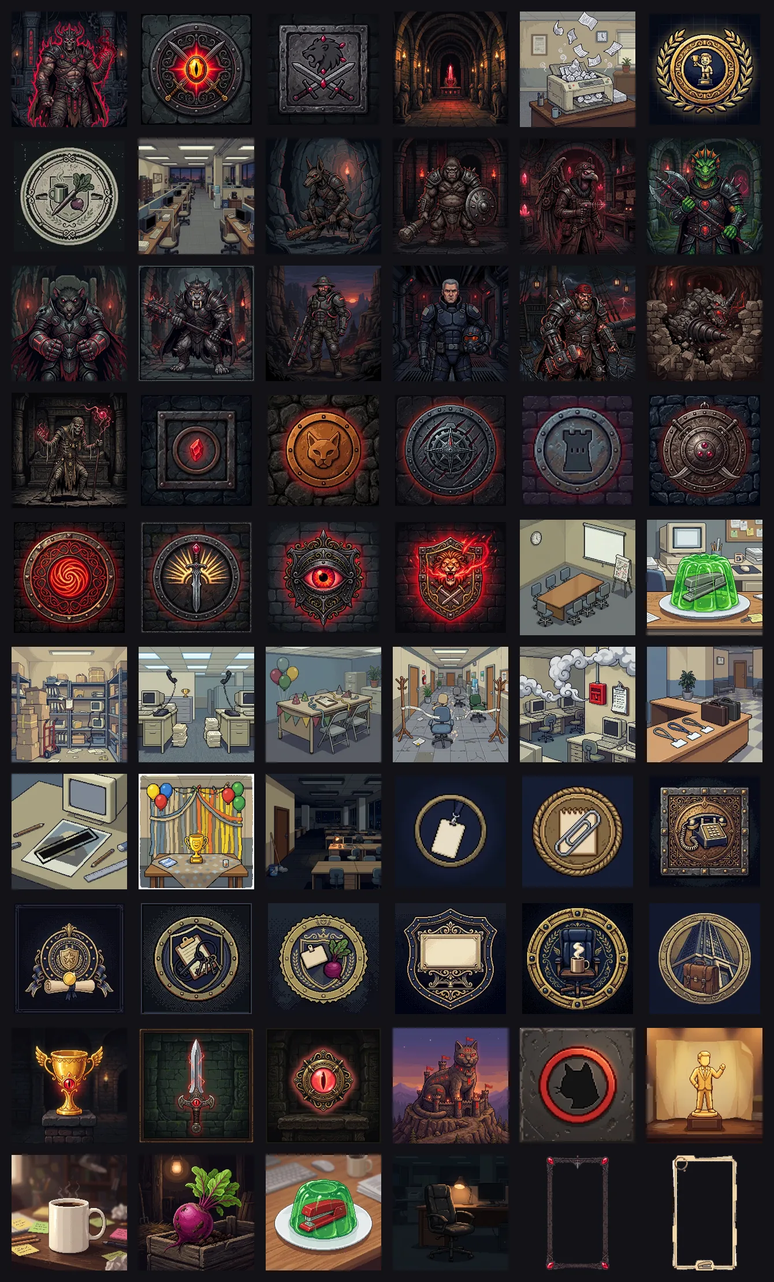
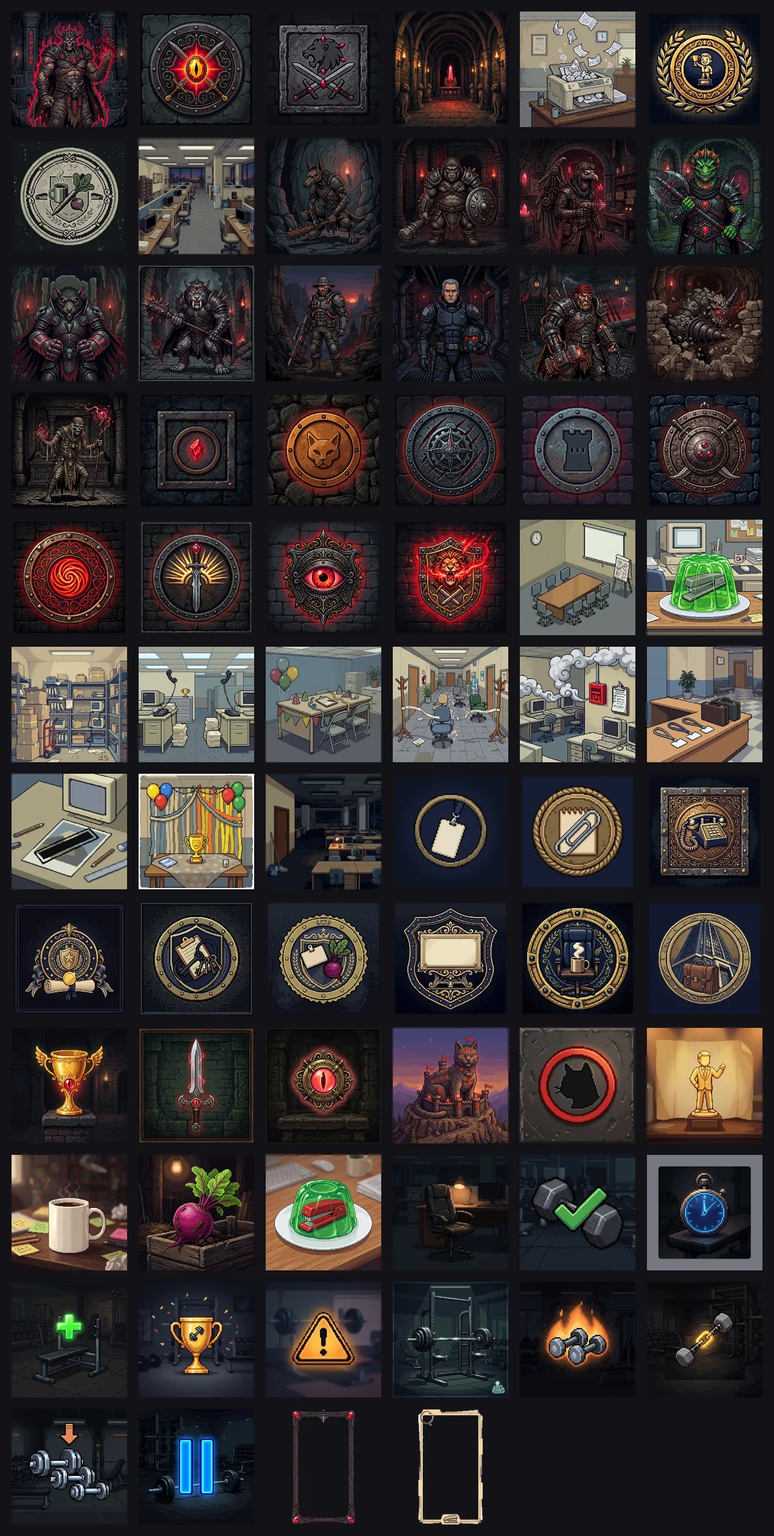
Artes lote 7: cartela 7 (treino, series e descanso) itens 1-10
10 pecas geradas individualmente, revisadas peca a peca, derivados 512 NEAREST em candidatos/treino, manifesto 70 registros. Sem vinculo com UI e sem regra nova de classificacao de series. Validacao completa no fechamento da PR.

diff --git a/scripts/prepare-art-lote1.py b/scripts/prepare-art-lote1.py
@@ -222,6 +222,40 @@ PECAS = [
     ('to-id-cadeira', 'Cadeira', 'office', 'identidade',
      'lote6-cadeira.png', 'office/identidade/cadeira.webp',
      (512, 512), 'nearest', 'images/artes/candidatos/office/identidade/cadeira.webp (identidade do tema; sem vínculo com UI)'),
+    # Lote 7 — cartela 7 (Treino: séries e descanso), itens 1-10 de 12.
+    # Lista adotada nesta sessão a partir das funções reais da sessão do app
+    # (a cartela aprovada só trazia título/contagem); sem vínculo com UI e
+    # sem nenhuma regra nova de classificação de séries.
+    ('tr-serie-concluida', 'Série concluída', 'treino', 'treino',
+     'lote7-serie-concluida.png', 'treino/serie-concluida.webp',
+     (512, 512), 'nearest', 'images/artes/candidatos/treino/serie-concluida.webp (cartela 7; sem vínculo com UI)'),
+    ('tr-descanso', 'Descanso', 'treino', 'treino',
+     'lote7-descanso.png', 'treino/descanso.webp',
+     (512, 512), 'nearest', 'images/artes/candidatos/treino/descanso.webp (cartela 7; sem vínculo com UI)'),
+    ('tr-adicionar-serie', 'Adicionar série', 'treino', 'treino',
+     'lote7-adicionar-serie.png', 'treino/adicionar-serie.webp',
+     (512, 512), 'nearest', 'images/artes/candidatos/treino/adicionar-serie.webp (cartela 7; sem vínculo com UI)'),
+    ('tr-trofeu-da-sessao', 'Troféu da sessão', 'treino', 'treino',
+     'lote7-trofeu-da-sessao.png', 'treino/trofeu-da-sessao.webp',
+     (512, 512), 'nearest', 'images/artes/candidatos/treino/trofeu-da-sessao.webp (cartela 7; sem vínculo com UI)'),
+    ('tr-alerta', 'Alerta', 'treino', 'treino',
+     'lote7-alerta.png', 'treino/alerta.webp',
+     (512, 512), 'nearest', 'images/artes/candidatos/treino/alerta.webp (cartela 7; sem vínculo com UI)'),
+    ('tr-proxima-serie', 'Próxima série', 'treino', 'treino',
+     'lote7-proxima-serie.png', 'treino/proxima-serie.webp',
+     (512, 512), 'nearest', 'images/artes/candidatos/treino/proxima-serie.webp (cartela 7; sem vínculo com UI)'),
+    ('tr-aquecimento', 'Aquecimento', 'treino', 'treino',
+     'lote7-aquecimento.png', 'treino/aquecimento.webp',
+     (512, 512), 'nearest', 'images/artes/candidatos/treino/aquecimento.webp (cartela 7; sem vínculo com UI)'),
+    ('tr-bi-set', 'Bi-set', 'treino', 'treino',
+     'lote7-bi-set.png', 'treino/bi-set.webp',
+     (512, 512), 'nearest', 'images/artes/candidatos/treino/bi-set.webp (cartela 7, apenas arte; sem vínculo com UI nem regra de classificação)'),
+    ('tr-drop-set', 'Drop-set', 'treino', 'treino',
+     'lote7-drop-set.png', 'treino/drop-set.webp',
+     (512, 512), 'nearest', 'images/artes/candidatos/treino/drop-set.webp (cartela 7, apenas arte; sem vínculo com UI nem regra de classificação)'),
+    ('tr-pausa', 'Pausa', 'treino', 'treino',
+     'lote7-pausa.png', 'treino/pausa.webp',
+     (512, 512), 'nearest', 'images/artes/candidatos/treino/pausa.webp (cartela 7; sem vínculo com UI)'),
 ]
 
 # Notas de revisão peça a peça que complementam a nota genérica do método
@@ -231,6 +265,11 @@ NOTAS_EXTRA = {
     'tc-id-simbolo-central': ' Divergência registrada: silhueta felina assimétrica, com bigodes apenas à esquerda; leitura a 28 px conferida na prova de leitura.',
     'to-id-trofeu-dundie': ' Divergência registrada: fundo claro tipo folha/cortina de papel atrás da estatueta; placa da base em branco, sem texto.',
     'to-id-caneca': ' Divergência registrada: post-its ao fundo com rabiscos abstratos ilegíveis (sem texto legível); caneca em branco, sem logo.',
+    'tr-descanso': ' Divergência registrada: margem cinza uniforme em volta de todo o quadro.',
+    'tr-adicionar-serie': ' Divergência registrada: o sinal de adição verde lê-se também como cruz; o banco vazio sustenta o sentido de nova série.',
+    'tr-proxima-serie': ' Divergência registrada: pictograma extra de anilhas com seta no canto inferior direito.',
+    'tr-bi-set': ' Divergência registrada: lê-se como dois cabos de halter ligados por um elo luminoso, não como dois halteres distintos lado a lado.',
+    'tr-aquecimento': ' Divergência registrada: halteres leves cruzados e sobrepostos diante da chama.',
     'to-id-cadeira': ' Divergência registrada: cena noturna escura; cadeira preta sobre fundo escuro com contraste moderado, realçada pela luminária. Leitura fraca a 28 px (prova de leitura do lote 6): preferir exibição maior ou revisão de contraste antes de uso como ícone pequeno.',
 }
 
@@ -379,7 +418,7 @@ def arquivo_peca(dest, uso):
 
 # 1) leitura a 28/56 px de patentes, selos e identidade (método final)
 alvos_leitura = [(pid, dest, uso) for pid, peca, tema, cat, fname, dest, alvo, metodo, uso in PECAS
-                 if cat in ('patentes', 'temas', 'identidade') and arquivo_peca(dest, uso).exists()]
+                 if cat in ('patentes', 'temas', 'identidade', 'treino') and arquivo_peca(dest, uso).exists()]
 faixa = Image.new('RGB', (max(1, len(alvos_leitura)) * 90, 200), (24, 24, 28))
 col = 0
 for pid, dest, uso in alvos_leitura:

diff --git a/docs/ARTES_THUNDERCATS_OFFICE.md b/docs/ARTES_THUNDERCATS_OFFICE.md
@@ -109,6 +109,8 @@ Originais grandes em `.cache/artes-originais/lote*.png` (≈2 MB cada; `.cache/`
 | 59 | Grampeador na gelatina (identidade) | `lote6-grampeador-na-gelatina-identidade.png` | Close do grampeador vermelho na gelatina verde em prato (distinto da cena-desafio do lote 4) |
 | 60 | Cadeira | `lote6-cadeira.png` | Cadeira de escritório preta sob luminária à noite; **leitura fraca a 28 px** registrada no manifesto |
 
+**Lote 7 (chamadas 61–70) — cartela 7 (Treino: séries e descanso), itens 1–10:** Série concluída, Descanso, Adicionar série, Troféu da sessão, Alerta, Próxima série, Aquecimento, Bi-set, Drop-set e Pausa. A cartela aprovada só trazia título/contagem no repo; a lista de 12 foi adotada nesta sessão a partir das funções reais da sessão (faltam Repetir série e Fim do treino), **sem vínculo com UI e sem nenhuma regra nova** de classificação de séries — Bi-set/Drop-set são apenas arte candidata. Derivados 512×512 NEAREST em `images/artes/candidatos/treino/`; divergências registradas por peça no manifesto (margem cinza do Descanso, cruz verde ambígua do Adicionar série, pictograma extra na Próxima série, Bi-set como halter ligado por elo, halteres cruzados do Aquecimento). Modo de trabalho ajustado a pedido do usuário: lotes em sequência na mesma PR, com revisão visual + pipeline por lote e **validação completa só no fechamento da PR**.
+
 Runas/marcas decorativas nos salões e placas são abstratas, **sem nomes, números ou legendas legíveis** (conforme especificação).
 
 ### 2.2 Imagens fornecidas pelo usuário
@@ -148,7 +150,7 @@ Nos lotes 1–5, os derivados nasceram em `images/artes/candidatos/` (fora do CO
 
 ### 2.4 Artes ainda pendentes
 
-**42 peças do plano editorial** (98 − 56 concluídas) + completude de tema: cada tema novo exige **24 arquivos** para a galeria (12 retratos + 10 patentes + 1 selo + 1 fundo). **ThunderCats (24/24) e The Office (24/24) foram cadastrados na galeria nesta PR** com aprovação explícita do usuário (§6): os 48 arquivos saíram de `images/artes/candidatos/` para os caminhos finais e os registros correspondentes do manifesto estão `em uso` (ids preservados). Restam como candidatos apenas as 10 peças de identidade do lote 6 e as 2 molduras (infraestrutura fora da contagem; os fundos são completude de tema, não constavam nas 98).
+**32 peças do plano editorial** (98 − 66 concluídas) + completude de tema: cada tema novo exige **24 arquivos** para a galeria (12 retratos + 10 patentes + 1 selo + 1 fundo). **ThunderCats (24/24) e The Office (24/24) foram cadastrados na galeria nesta PR** com aprovação explícita do usuário (§6): os 48 arquivos saíram de `images/artes/candidatos/` para os caminhos finais e os registros correspondentes do manifesto estão `em uso` (ids preservados). Restam como candidatos as 10 peças de identidade do lote 6, as 10 peças de treino do lote 7 e as 2 molduras (infraestrutura fora da contagem; os fundos são completude de tema, não constavam nas 98).
 
 ## 3. Provas visuais (`docs/provas-lote1/`, montadas por código)
 
@@ -183,7 +185,7 @@ As listas enviadas somam **98** (o rótulo "94" do pedido não fecha com as list
 | 4 | The Office — Desafios | 12 | **12 (completa)** | 0 |
 | 5 | The Office — Patentes | 10 | **10 (completa)** | 0 |
 | 6 | The Office — Identidade | 6 | **6 (completa: Selo + lote 6)** | 0 |
-| 7 | Treino — séries e descanso | 12 | 0 | 12 |
+| 7 | Treino — séries e descanso | 12 | 10 (lote 7) | 2 (Repetir série, Fim do treino) |
 | 8 | Cardio e equipamentos | 12 | 0 | 12 |
 | 9 | Troféus dos temas existentes | 10 | 0 | 10 |
 | 10 | Estados vazios e utilitários | 8 | 0 | 8 |

diff --git a/CHANGELOG.md b/CHANGELOG.md
@@ -14,6 +14,7 @@ Formato baseado em [Keep a Changelog](https://keepachangelog.com/pt-BR/1.1.0/).
 - **Lote 5 (chamadas 41–50):** fecha as cartelas 4 e 5 do The Office — Último expediente + 9 patentes (Recém-contratado a Diretor do Corporativo). **The Office completa 24/24 arquivos de tema** (12 desafios + 10 patentes + selo + fundo); com ThunderCats (24/24), as cartelas 1, 2, 4 e 5 do plano estão completas — 46/98 peças concluídas, 52 pendentes. Manifesto com 50 registros. Família de medalhões dourado/marinho consistente com a Lenda de Scranton; variações registradas (patente 03 em plaqueta quadrada, patente 04 com moldura decorativa). Cadastro dos dois temas no app segue pendente de aprovação de interface.
 - **Lote 6 (chamadas 51–60, sessão `arena/9470848b-diario`):** fecha as cartelas 3 (ThunderCats/Identidade) e 6 (The Office/Identidade) — Troféu da Jornada, Espada do Trovão, Olho de Thundera, Fortaleza de Thundera e Símbolo central; Troféu Dundie, Caneca, Beterraba, Grampeador na gelatina (close de identidade) e Cadeira. Derivados 512×512 NEAREST em `images/artes/candidatos/*/identidade/` (≈337 KB com as molduras, fora do CORE e sem vínculo com UI); manifesto com **60 registros** (merge por id). Divergências registradas peça a peça: borda decorativa da Espada, silhueta assimétrica do Símbolo central, fundo claro do Dundie, rabiscos ilegíveis nos post-its da Caneca e leitura fraca da Cadeira a 28 px. Plano: **56/98 peças concluídas, 42 pendentes** (cartelas 7–10); o usuário decidiu gerar as cartelas 7–8 **sem reuso** de ícones.
 - **Cadastro dos temas ThunderCats e The Office na galeria (aprovado explicitamente nesta PR):** IDs estáveis novos `thundercats`/`office` ao fim das listas (IDs existentes e progresso salvo intocados); `THEMES` com 10 patentes + 12 chefões/desafios por tema na curva de HP compartilhada e fraquezas nos grupos reais; linguagem do Office aplicada (Arena "Filial de Scranton", Boss "Desafio do expediente", carreira na filial até Lenda de Scranton); 48 arquivos movidos dos candidatos para `images/bosses|patentes|temas|cards`; `DEFAULT_BOSS_PORTRAITS` 120→144; paletas de Story Card e molduras de canvas `garra`/`caderno`; `sw.js` **v59→v60** com os 48 arquivos no CORE (cache offline cresce ≈1,5 MB); testes atualizados (144 retratos, 12 temas, 132 imagens de patentes/cards também na validação em navegador real). Sem mudança em fórmulas de treino/XP/dano/PR/histórico. ThunderCats/The Office são propriedades de terceiros — arte gerada não implica licença comercial.
+- **Lote 7 (chamadas 61–70):** cartela 7 (Treino: séries e descanso) com 10 peças candidatas em `images/artes/candidatos/treino/` (Série concluída a Pausa; faltam 2) — lista adotada das funções reais da sessão, sem vínculo com UI e sem regra nova de classificação. Manifesto com **70 registros**; plano **66/98, 32 pendentes**. Validação completa fica para o fechamento da PR (modo de trabalho ajustado a pedido do usuário).
 
 ## [Não lançado] — faixa semanal editável por grupo
 
